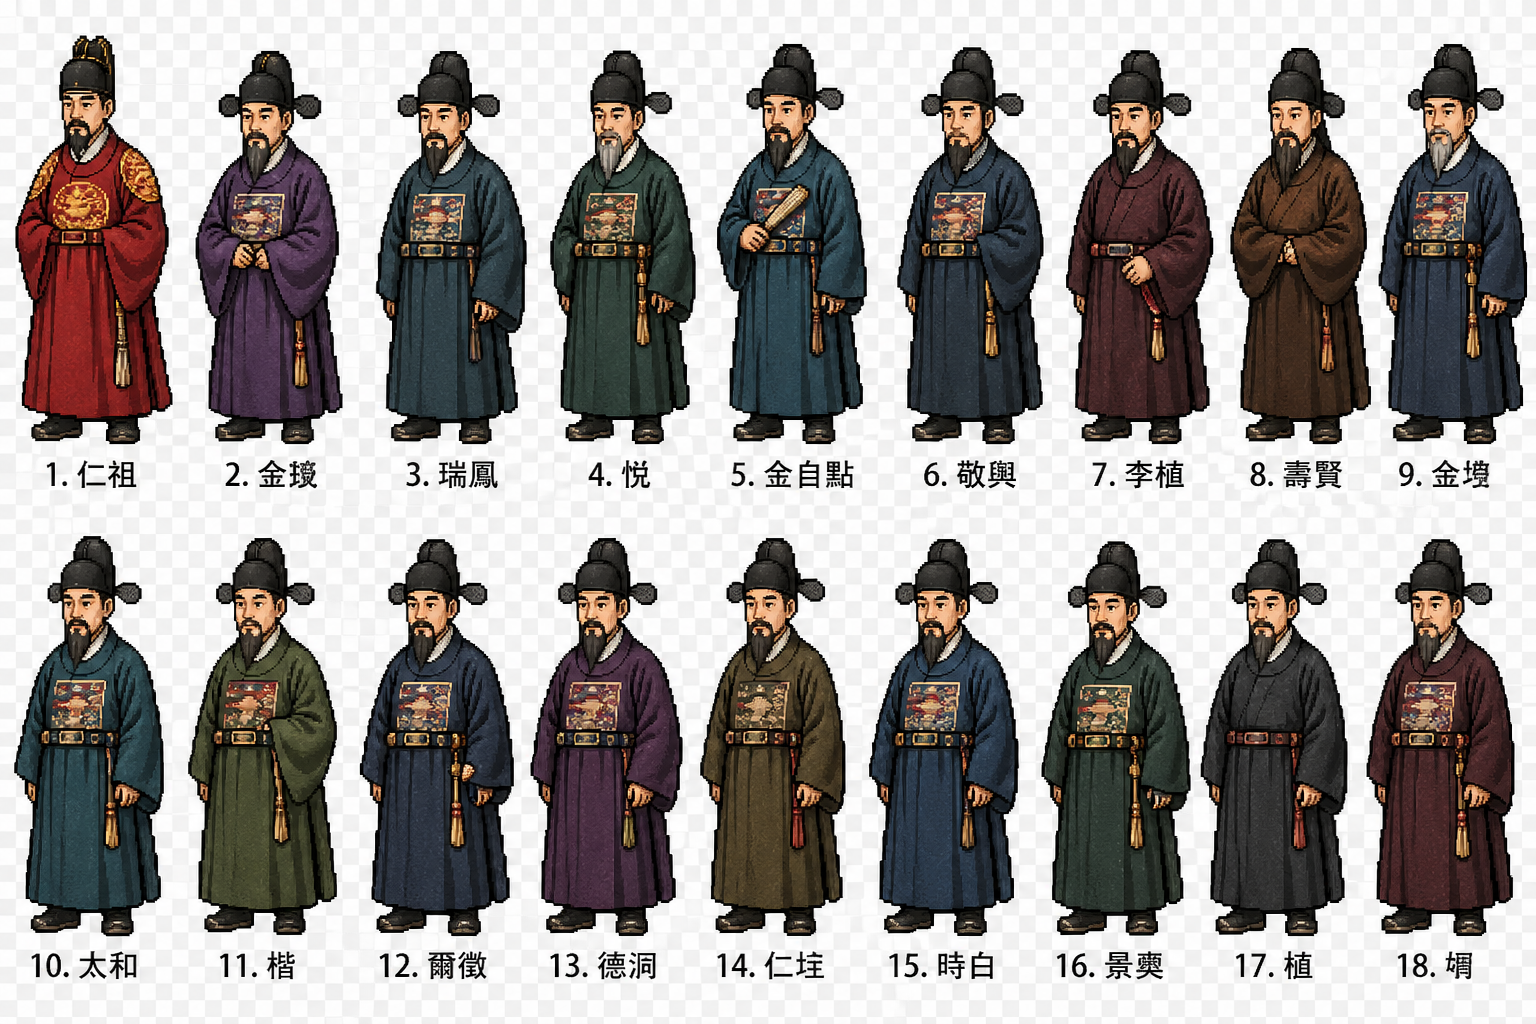
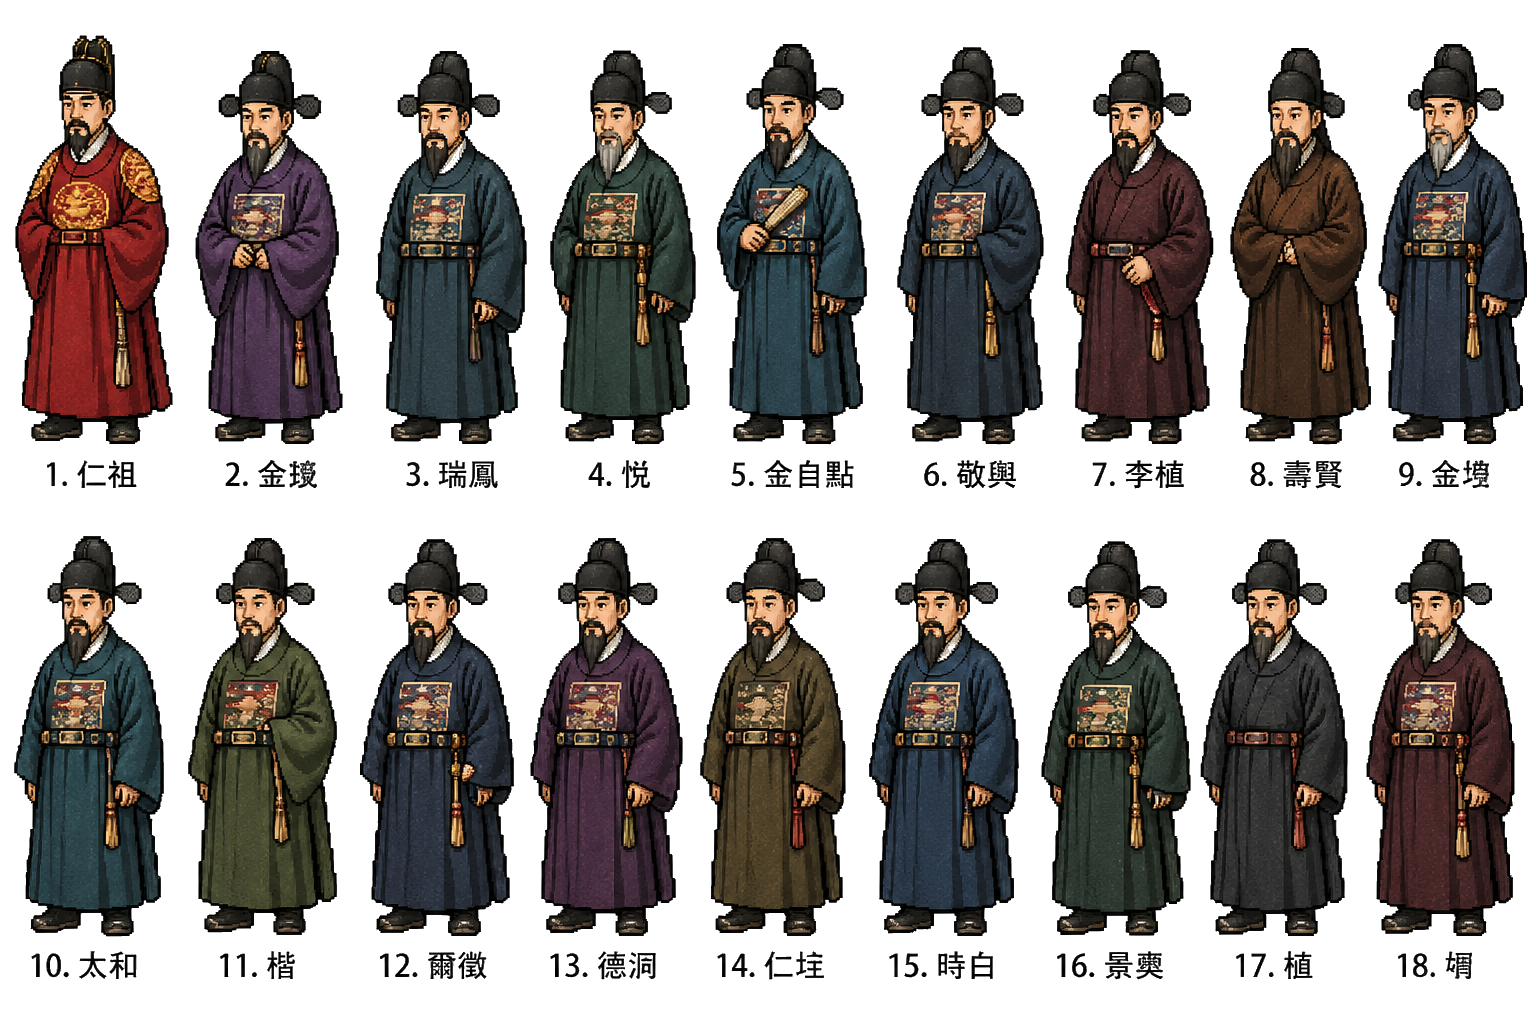
Transparency Update: Algorithmically removed background from sprite sheet

diff --git a/remove_bg.py b/remove_bg.py
@@ -1,0 +1,20 @@
+from PIL import Image
+
+def remove_background(input_path, output_path):
+    img = Image.open(input_path).convert("RGBA")
+    datas = img.getdata()
+
+    new_data = []
+    for item in datas:
+        # 如果像素接近白色或浅灰色（棋盘格色）
+        # 阈值设为 180，因为背景棋盘格颜色通常在 200-255 之间
+        if item[0] > 200 and item[1] > 200 and item[2] > 200:
+            new_data.append((255, 255, 255, 0)) # 透明
+        else:
+            new_data.append(item)
+
+    img.putdata(new_data)
+    img.save(output_path, "PNG")
+
+if __name__ == "__main__":
+    remove_background("characters_sheet.png", "characters_sheet_transparent.png")
